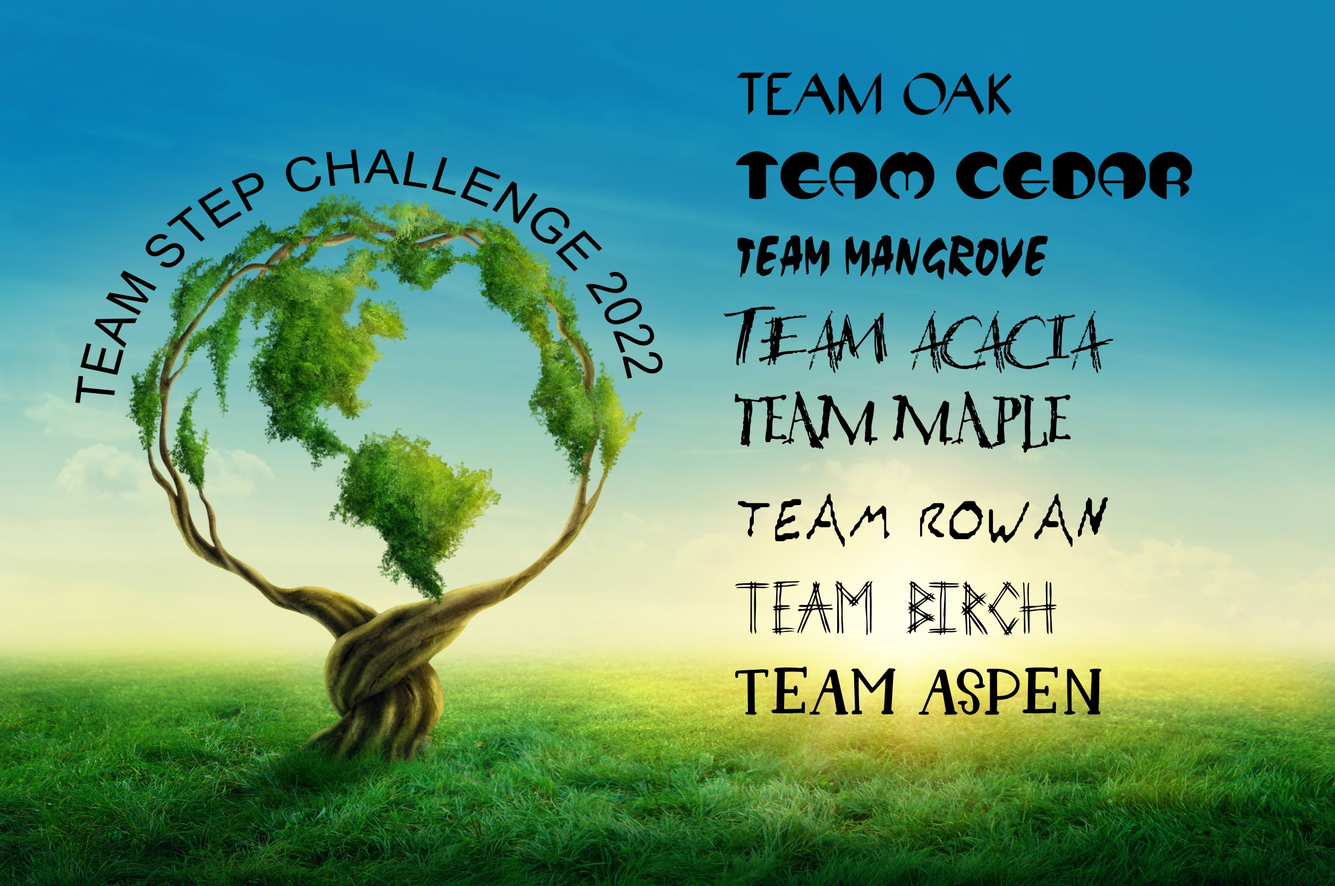
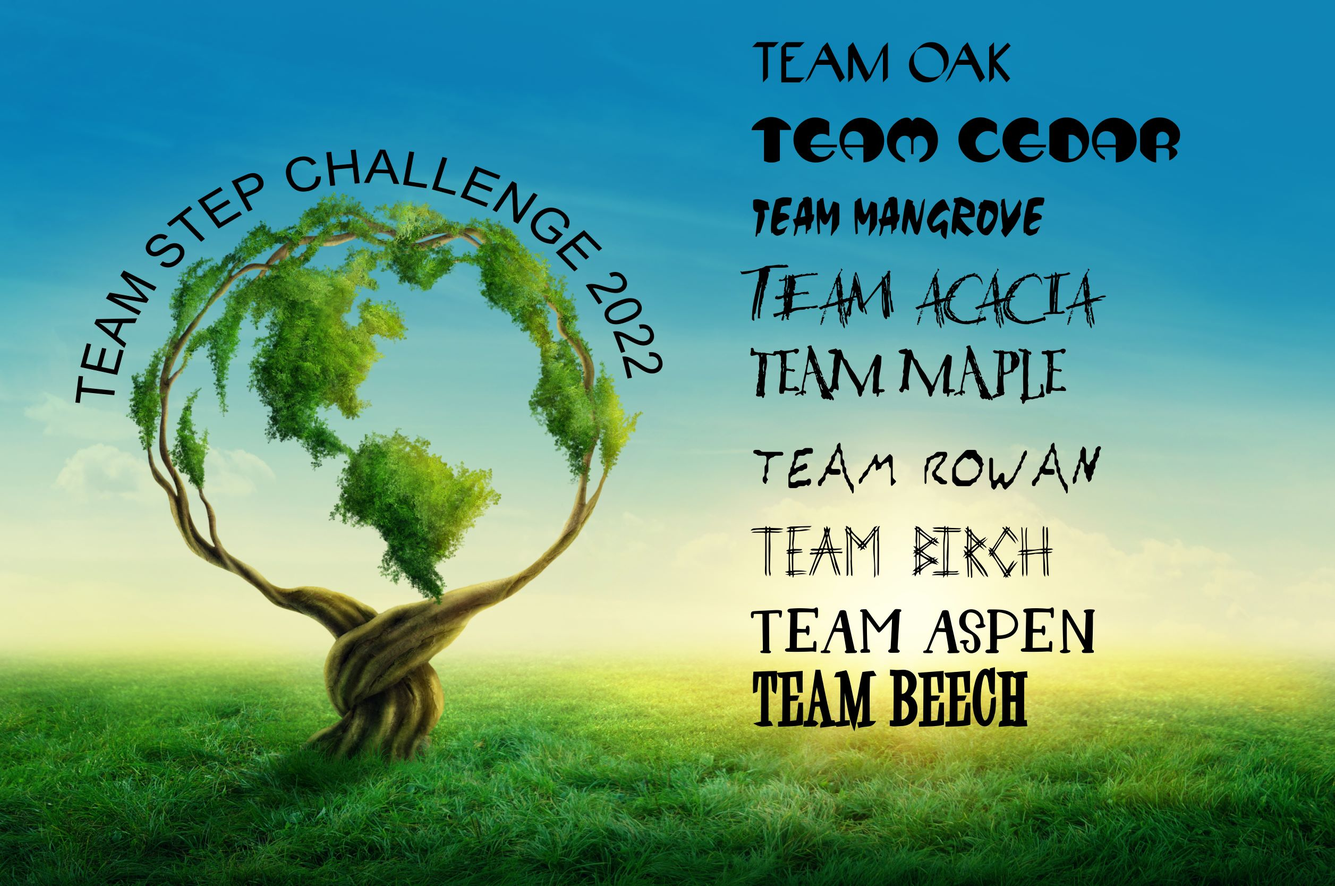
Ready for Team Beech as aux.

Changed region(s): [[0.5277, 0.0312, 0.9001, 0.8417]]

diff --git a/msc_root/teams/templates/teams/teams.html b/msc_root/teams/templates/teams/teams.html
@@ -10,14 +10,15 @@
    usemap="#teammap"
    style="width: 600px;">
   <map name="teammap">
-    <area shape="rect" coords="327,25,542,60" alt="Team Oak" href="/teams/Oak">
-    <area shape="rect" coords="327,60,542,98" alt="Team Cedar" href="/teams/Cedar">
-    <area shape="rect" coords="327,98,542,131" alt="Team Mangrove" href="/teams/Mangrove">
-    <area shape="rect" coords="327,131,542,170" alt="Team Acacia" href="/teams/Acacia">
-    <area shape="rect" coords="327,170,542,212" alt="Team Maple" href="/teams/Maple">
-    <area shape="rect" coords="327,212,542,252" alt="Team Rowan" href="/teams/Rowan">
-    <area shape="rect" coords="327,252,542,292" alt="Team Birch" href="/teams/Birch">
-    <area shape="rect" coords="327,292,542,325" alt="Team Aspen" href="/teams/Aspen">
+    <area shape="rect" coords="335,14,535,44" alt="Team Oak" href="/teams/Oak">
+    <area shape="rect" coords="335,44,535,80" alt="Team Cedar" href="/teams/Cedar">
+    <area shape="rect" coords="335,80,535,112" alt="Team Mangrove" href="/teams/Mangrove">
+    <area shape="rect" coords="335,112,535,150" alt="Team Acacia" href="/teams/Acacia">
+    <area shape="rect" coords="335,150,535,192" alt="Team Maple" href="/teams/Maple">
+    <area shape="rect" coords="335,192,535,228" alt="Team Rowan" href="/teams/Rowan">
+    <area shape="rect" coords="335,228,535,267" alt="Team Birch" href="/teams/Birch">
+    <area shape="rect" coords="335,267,535,290" alt="Team Aspen" href="/teams/Aspen">
+    <area shape="rect" coords="335,298,535,331" alt="Team Beech" href="/teams/Beech">
   </map>
 
   <ul>

diff --git a/msc_root/msc_site/templates/base.html b/msc_root/msc_site/templates/base.html
@@ -28,7 +28,7 @@
       {% if user.is_authenticated %}<li><a href={% url 'step_report' %}>Your Step Summary</a></li>{% endif %}
       <li><a href='/teams'>Teams</a></li>
       <li><a href='/groups'>Groups</a></li>
-      {% comment %}<li><a href='/groups/register'>Group Registration</a></li>{% endcomment %}
+      <li><a href={% url 'group_register' %}>Group Registration</a></li>
       <li><a href='/faq'>FAQ</a></li>
       <li><a href='/contact'>Contact Us</a></li>
     </ul>

diff --git a/msc_root/mpc_groups/templates/mpc_groups/register.html b/msc_root/mpc_groups/templates/mpc_groups/register.html
@@ -9,6 +9,7 @@
     <p class="success">
         Your group or groups were successfully registered.
     </p>
+    <p>Registered groups will be added to the web page in batches.  If it has been more than a day and you still can't see your group, please email teamstepchallenge2022@gmail.com and we will make sure it is fixed.</p>
 
 {% else %}
     Greetings, MPC Ambassador Group Administrators!

diff --git a/msc_root/mpc_groups/management/commands/register.py b/msc_root/mpc_groups/management/commands/register.py
@@ -1,5 +1,16 @@
 from django.core.management.base import BaseCommand
+from django.contrib.auth.models import User 
 from mpc_groups.models import MpcAdminRegistration, MpcGroup, GroupModifications
+from teams.models import Team
+
+def yes_or_no(question):
+    while "the answer is invalid":
+        reply = str(input(question+' (y/n): ')).lower().strip()
+        if reply[:1] == 'y':
+            return True
+        if reply[:1] == 'n':
+            return False
+
 
 class Command(BaseCommand):
     help = 'Processes registrations'
@@ -20,19 +31,29 @@ class Command(BaseCommand):
         cannonical = group_name.strip().lower()
         if cannonical not in self._groups:
             group_name = group_name.strip()
-            MpcGroup.objects.update_or_create(name=group_name, admin=admin.strip())
+            if not MpcGroup.objects.filter(name=group_name).exists():
+                if yes_or_no(f"Create '{group_name}'?"):
+                    # We need to calculate what team to put this group on.
+                    counter = {}
+                    for team in Team.objects.filter(auxiliary=True):
+                        counter[team] = User.objects.filter(profile__team=team).count()
+                    team = min(counter, key=counter.get)
+
+                    MpcGroup.objects.update_or_create(name=group_name, admin=admin.strip(), team=team)
+                    modified = True
+                    print(group_name)
             self._groups[cannonical] = group_name
-            modified = True
-            print(group_name)
         else:
-            print(group_name.strip())
-            obj = MpcGroup.objects.get(name=self._groups[group_name.strip().lower()])
-            old = obj.admin
-            obj.admin = admin.strip()
-            if obj.admin != old:
-                obj.save()
-                print(f"DUP: changed admin from {old} to {admin.strip()}")
-                modified = True
+            #print(group_name.strip())
+            # obj = MpcGroup.objects.get(name=self._groups[group_name.strip().lower()])
+            #old = obj.admin
+            #obj.admin = admin.strip()
+            #if obj.admin != old:
+                # After Sep 1, no longer automatically doing this.
+                # obj.save()
+                # print(f"DUP: changed admin from {old} to {admin.strip()}")
+                # modified = True
+            pass
         if modified or GroupModifications.objects.count() == 0:
             GroupModifications.objects.create()
 

diff --git a/msc_root/steps/views.py b/msc_root/steps/views.py
@@ -28,7 +28,7 @@ class Register(CreateView):
         if not prof.team:
             # We need to calculate what team to put this peaker on.
             counter = {}
-            for team in Team.objects.all():
+            for team in Team.objects.filter(auxiliary=False):
                 counter[team] = User.objects.filter(profile__team=team).count()
             prof.team = min(counter, key=counter.get)
 
@@ -109,6 +109,12 @@ def peaker_modification(request):
                 entry.peaker = request.user
                 if entry.group and entry.group.team:
                     entry.team = entry.group.team
+                if not entry.team:
+                    # We need to calculate what team to put this peaker on.
+                    counter = {}
+                    for team in Team.objects.filter(auxiliary=False):
+                        counter[team] = User.objects.filter(profile__team=team).count()
+                    entry.team = min(counter, key=counter.get)
             except Exception:
                 pass
             entry.save()

diff --git a/msc_root/mpc_groups/urls.py b/msc_root/mpc_groups/urls.py
@@ -2,7 +2,7 @@ from django.urls import path, re_path
 from . import views
 
 urlpatterns = [
-    # path('register/', views.register),
+    path('register/', views.register, name='group_register'),
     re_path(r'^(?P<group>[\w\&\,/ -]+)/members$', views.members, name='group_members'),
     re_path(r'^(?P<group>[\w\&\,/ -]+)$', views.report, name='group_report'),
     path('', views.index, name='groups')

diff --git a/msc_root/mpc_groups/forms.py b/msc_root/mpc_groups/forms.py
@@ -7,5 +7,5 @@ class MpcAdminRegistrationForm(ModelForm):
     class Meta:
         model = MpcAdminRegistration
         fields = [
-            'name', 'primary_group', 'secondary_group'
+            'name', 'primary_group',  # No secondary groups after sep 1   'secondary_group'
         ]
